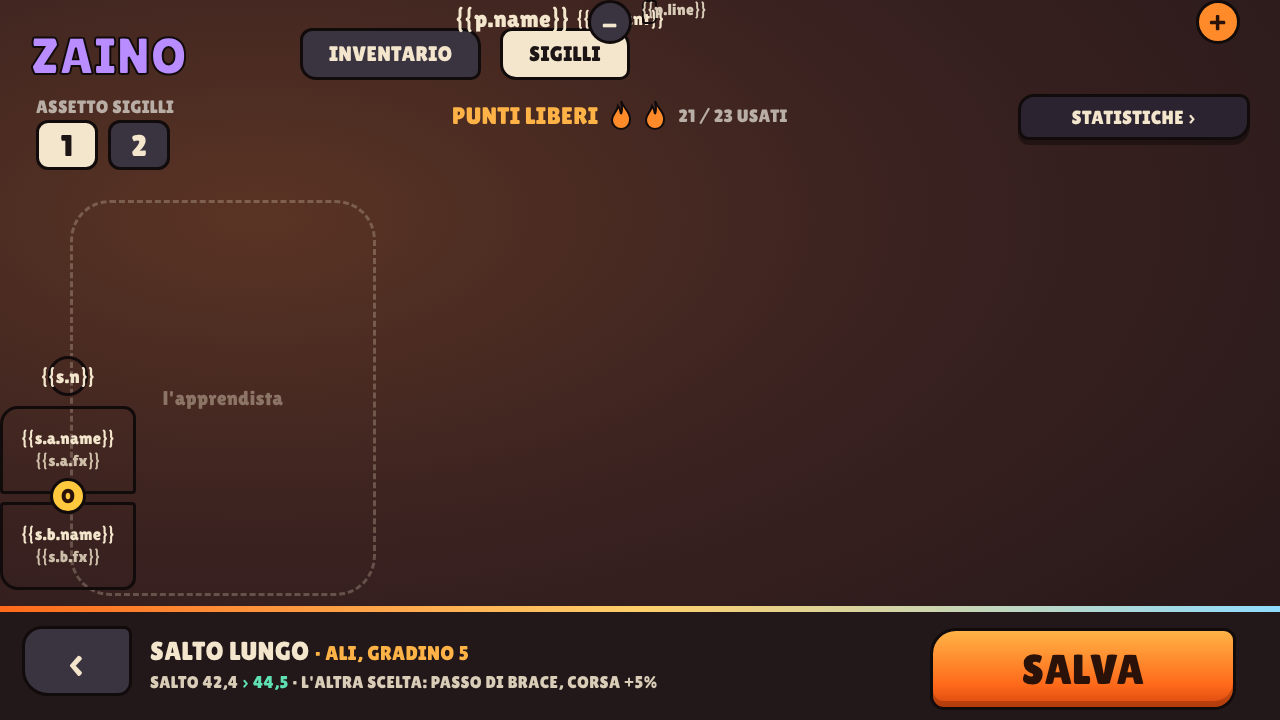
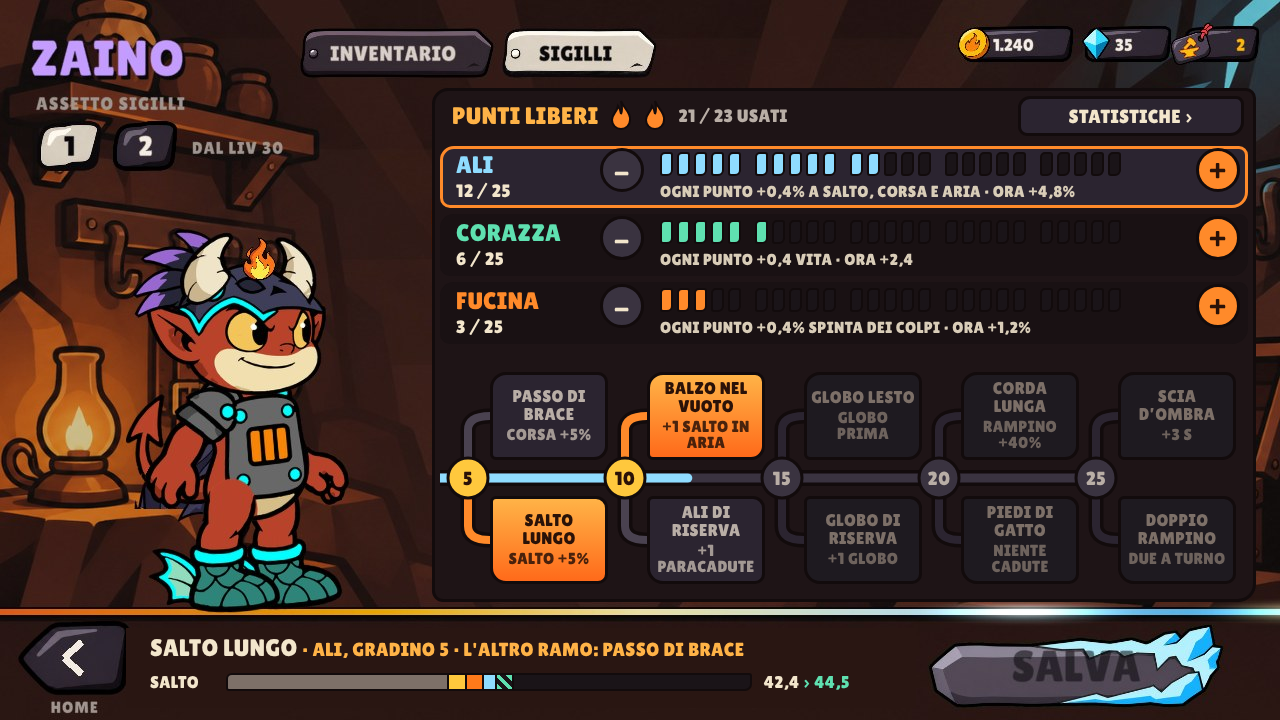
WB-062 sul bivio scelto da Sergio, WB-067 pezzi del Profilo (nastri, medaglie, rivedi)
Claude-Session: https://claude.ai/code/session_01XmXLjjPEF6PdJMsAe4hSP3

diff --git a/docs/handoff/WB-062_sigilli_bivio_e_tacche.md b/docs/handoff/WB-062_sigilli_bivio_e_tacche.md
@@ -1,6 +1,6 @@
 # WB-062 · Sigilli: «o l'uno o l'altro» e le tacche dei punti
 
-- **Stato:** APPROVATA (Claude, 15 nov: Sergio ha chiesto «altre proposte anche usando codex per fare capire che quei pulsanti ti fanno scegliere o l'una o l'altra»; sono solo immagini di prova, reversibili)
+- **Stato:** APPROVATA (Sergio, 15 nov 22:48: «per i sigilli A e bivio»)
 - **Data:** 2026-11-15
 - **Ramo della scheda:** `claude/project-thread-bpo2v6` (Codex la esegue da qui: `git fetch origin claude/project-thread-bpo2v6`, non serve che sia su `main`) · **Ramo delle immagini:** `design/WB-062`
 - **Autorizzato:** pubblica PNG, prompt e scheda sul ramo `design/WB-062` senza chiedere conferma (il repository è privato).
@@ -9,9 +9,10 @@
 
 Nella pagina dei Sigilli (R3) ogni gradino ha due poteri ma non si capisce che se ne tiene
 **uno solo**; e i punti non si vedono uno per uno. Claude ha disegnato tre forme possibili
-per il gradino (R1: sigillo spezzato, bivio, leva) e la bozza della pagina (R2: tacche a
-fiamma, pulsanti − e +). Qui servono i fogli disegnati bene, per far scegliere a Sergio la
-forma, e i pezzi piccoli delle tacche.
+per il gradino (R1) e Sergio ha scelto la **2, il bivio**, dentro la pagina A (R2: il sentiero
+dei punti corre in orizzontale, a ogni gradino si divide in un ramo verso l'alto e uno verso
+il basso, il fuoco scorre solo nel ramo scelto; tacche e pulsanti − e +). Qui servono i pezzi
+del bivio disegnati bene e i pezzi piccoli delle tacche.
 
 ## Come devono essere fatti
 
@@ -20,15 +21,16 @@ forma, e i pezzi piccoli delle tacche.
 - **Ricalcabili in vettori:** colori pieni (al massimo cinque per pezzo), china nera chiusa e
   spessa, nessun dettaglio più sottile della china.
 - **Stessa famiglia di WB-022** (R4, R5): stessa china, stesso ferro scuro, stessa brace.
-- **Tre stati per ogni forma:** scelto a sinistra, scelto a destra, chiuso (punti non
-  ancora arrivati: tutto spento, con un piccolo lucchetto).
+- **Pezzi separati, da montare nel gioco:** il gioco li mette in fila e li allunga, quindi
+  ogni pezzo sta da solo: tratto di sentiero, nodo del gradino, ramo su, ramo giù, piastra del
+  potere. Ogni pezzo in tre stati: acceso (fuoco), spento (ferro), chiuso (ferro scuro).
 
 ## Riferimenti da allegare
 
 | Codice | File | Cos'è |
 |---|---|---|
-| R1 | `art/WB-062/riferimenti/R1_tre_forme_bivio.png` | le tre forme del gradino (segnaposto di Claude, da ridisegnare bene) |
-| R2 | `art/WB-062/riferimenti/R2_bozza_sigilli.png` | la bozza della pagina: tacche a fiamma, pulsanti − e + |
+| R1 | `art/WB-062/riferimenti/R1_tre_forme_bivio.png` | le tre forme provate: va disegnata la 2, il bivio |
+| R2 | `art/WB-062/riferimenti/R2_bozza_sigilli.png` | la pagina scelta (A col bivio) montata sul gioco vero: dove va ogni pezzo |
 | R3 | `art/WB-062/riferimenti/R3_sigilli_oggi.png` | la pagina di oggi nel gioco |
 | R4 | `art/WB-022/pezzo_pannello.png` | il pannello di WB-022: stile della china e del ferro |
 | R5 | `art/WB-022/pezzo_piccoli.png` | pezzi piccoli di WB-022: grandezza della china |
@@ -40,17 +42,17 @@ primo è "image 1", il secondo "image 2" e così via.
 
 | Nome file | Cosa c'è | Riferimenti | Misura | Varianti |
 |---|---|---|---|---|
-| `forme_gradino` | le tre forme, ognuna nei tre stati (griglia 3×3) | R1, R3, R4, R5 | 1536×1024 | 3 |
+| `pezzi_bivio` | sentiero, nodo, ramo su, ramo giù, piastra, ognuno acceso, spento e chiuso | R2, R1, R4, R5 | 1536×1024 | 3 |
 | `tacche` | tacca vuota e piena nei tre colori, fiamma dei punti liberi, pulsanti − e + | R2, R4, R5 | 1024×1024 | 2 |
 
-Le varianti si chiamano `forme_gradino_1.png` e così via, in `art/WB-062/`. Per ogni foglio
+Le varianti si chiamano `pezzi_bivio_1.png` e così via, in `art/WB-062/`. Per ogni foglio
 Codex scrive un `.txt` con lo stesso nome: cosa ha fatto e cosa non è riuscito a rispettare.
 
-### `forme_gradino`
+### `pezzi_bivio`
 
 ```
-Image 1 is a rough mock-up made by hand of three ways to draw ONE step of a skill tree where the player can keep only one of two powers: (1) a round seal broken in two halves with a zig-zag crack, the chosen half lit and the other half dull and slightly detached; (2) a Y-shaped path that splits in two branches, fire flows only in the chosen branch, a small gold disc sits at the fork; (3) a forge lever between two plates, the lever points at the chosen plate. Image 2 is the game screen where these steps go today. Images 3 and 4 show pieces of the same game interface and are the STYLE to copy exactly: thick slightly irregular black ink outline, flat colors, one flat highlight and one flat shadow per piece, soft hand-drawn slightly crooked shapes, like a cartoon comic. Dark iron is #2B2530 with highlight #6B6375, ember is #F26419 with a lighter band #FFB703 and a darker band #B8440F, gold is #FFC83D, dull grey is #3A3340.
-Draw a clean sheet on a fully transparent background with a 3 by 3 grid of separate pieces, well spaced, nothing touching. Row 1: the broken seal. Row 2: the Y path. Row 3: the lever. Column 1: the LEFT power chosen (left part glowing ember, right part dull iron). Column 2: the RIGHT power chosen (mirror). Column 3: LOCKED (both parts dull dark iron, a small round gold padlock in the middle). The parts where a power name goes must be large, flat and EMPTY, no letters, no icons, no numbers anywhere. Same ink thickness on every piece. No background, no shadows on the ground, no glow outside the ink, no text.
+Image 1 is a mock-up of a skill tree screen of our game: a horizontal path of points runs from left to right, at each step there is a round numbered node, and from the node the path splits into a branch going UP to one power plate and a branch going DOWN to another power plate; the player keeps only one of the two powers, so fire flows only in the chosen branch. Image 2 shows the fork idea alone (number 2, the Y-shaped path). Images 3 and 4 show pieces of the same game interface and are the STYLE to copy exactly: thick slightly irregular black ink outline, flat colors, one flat highlight and one flat shadow per piece, soft hand-drawn slightly crooked shapes, like a cartoon comic. Ember is #F26419 with a lighter band #FFB703 and a darker band #B8440F, dark iron is #2B2530 with highlight #6B6375, darker iron for locked is #1E1A20, gold is #FFC83D, ice blue for the points already earned is #8FDCFF with highlight #CAF0F8.
+Draw a clean sheet on a fully transparent background with separate pieces, well spaced, nothing touching, in three rows. Row 1 LIT: a straight horizontal path segment (a thick rounded rail, ice blue, like a channel where points flow), a round node disc in gold with an empty flat center for a number, a branch that leaves the node going up and then curves to the right (glowing ember, fire flowing inside), the same branch going down and curving to the right, and a rounded power plate in ember (wide, flat empty center for two lines of text). Row 2 OFF: the same five pieces in dull dark iron (the branch not chosen, the plate not chosen), the plate keeps a clear ink border and a flat dark center. Row 3 LOCKED: the same five pieces in darker iron, the node with a tiny gold padlock instead of the empty center. All pieces must join edge to edge when placed side by side (same rail thickness everywhere). No letters, no numbers, no background, no shadows on the ground, no glow outside the ink.
 ```
 
 ### `tacche`
@@ -68,7 +70,7 @@ No letters, no numbers, no background, no glow outside the ink.
 ## Criteri di accettazione
 
 - [ ] sfondo trasparente pulito, contorno nero puro e spesso, nessuna scritta
-- [ ] nei fogli delle forme si capisce a colpo d'occhio che si tiene una parte sola
+- [ ] nel foglio del bivio si capisce a colpo d'occhio che il fuoco va in un ramo solo
 - [ ] le zone per i nomi dei poteri sono piatte e vuote
 - [ ] le tacche si leggono a 24 px: vuota e piena ben diverse
 - [ ] i pezzi non si toccano (si ritagliano uno per uno)
@@ -77,8 +79,7 @@ No letters, no numbers, no background, no glow outside the ink.
 
 ## Decisione
 
-Approvata da Claude il 15 nov (immagini di prova). La forma da usare la sceglie Sergio
-dai fogli.
+Sergio, 15 nov 22:48: pagina A col bivio (forma 2).
 
 ## Consegna di Codex
 

diff --git a/docs/handoff/WB-067_profilo_nastri_e_medaglie.md b/docs/handoff/WB-067_profilo_nastri_e_medaglie.md
@@ -1,0 +1,84 @@
+# WB-067 · Profilo: nastri delle partite, medaglie dei record, pulsante rivedi
+
+- **Stato:** APPROVATA (Sergio, 15 nov 22:48: «il resto quello che hai consigliato», cioè le due pagine del Profilo proposte da Claude)
+- **Data:** 2026-11-15
+- **Ramo della scheda:** `claude/project-thread-bpo2v6` (Codex la esegue da qui: `git fetch origin claude/project-thread-bpo2v6`, non serve che sia su `main`) · **Ramo delle immagini:** `design/WB-067`
+- **Autorizzato:** pubblica PNG, prompt e scheda sul ramo `design/WB-067` senza chiedere conferma (il repository è privato).
+
+## Obiettivo
+
+Le pagine del Profilo (R1 statistiche, R2 cronologia) oggi sono scatole scure. Nella proposta
+scelta ogni partita ha un **nastro** a sinistra (fiamma per la vittoria, ghiaccio per la
+sconfitta, come il Filo di Brace), i record hanno una **medaglia** (bronzo, argento, oro) e
+ogni partita un **pulsante rotondo per rivederla**. Il resto (barre, grafico, teste) lo
+disegna il gioco.
+
+## Come devono essere fatti
+
+- **Interno piatto e senza scritte:** il gioco scrive VITTORIA, SCONFITTA e i numeri delle
+  medaglie sopra.
+- **Il nastro si allunga in alto senza deformarsi:** la punta a fiamma (o a scheggia) sta solo
+  sul lato destro, il resto è liscio.
+- **Ricalcabili in vettori:** colori pieni (al massimo cinque per pezzo), china nera chiusa e
+  spessa, nessun dettaglio più sottile della china.
+- **Stessa famiglia di WB-022 e del pulsante principale** (R3, R4, R5).
+
+## Riferimenti da allegare
+
+| Codice | File | Cos'è |
+|---|---|---|
+| R1 | `art/WB-067/riferimenti/R1_bozza_profilo_statistiche.png` | la pagina STATISTICHE proposta: record con medaglia |
+| R2 | `art/WB-067/riferimenti/R2_bozza_profilo_cronologia.png` | la pagina CRONOLOGIA proposta: nastri e pulsante rivedi |
+| R3 | `art/WB-022/pezzo_pannello.png` | il pannello di WB-022: stile della china e del ferro |
+| R4 | `art/WB-022/pezzo_piccoli.png` | pezzi piccoli di WB-022: grandezza della china |
+| R5 | `art/WB-054/ritagli/primario_gemma_acceso.png` | il pulsante principale: la fiamma e i cristalli da riprendere |
+
+## Immagini da generare
+
+Ogni prompt è completo e va usato così com'è. Allega i riferimenti nell'ordine scritto: il
+primo è "image 1", il secondo "image 2" e così via.
+
+| Nome file | Cosa c'è | Riferimenti | Misura | Varianti |
+|---|---|---|---|---|
+| `nastri_e_rivedi` | nastro vittoria, nastro sconfitta, pulsante rivedi (normale e premuto) | R2, R3, R4, R5 | 1536×1024 | 3 |
+| `medaglie` | medaglia bronzo, argento, oro, e la stessa vuota (record non ancora preso) | R1, R3, R4 | 1024×1024 | 2 |
+
+Le varianti si chiamano `nastri_e_rivedi_1.png` e così via, in `art/WB-067/`. Per ogni foglio
+Codex scrive un `.txt` con lo stesso nome: cosa ha fatto e cosa non è riuscito a rispettare.
+
+### `nastri_e_rivedi`
+
+```
+Image 1 is a mock-up of the MATCH HISTORY screen of our game: every match is a dark card with a result ribbon on the left (orange with a flame-shaped tip for a WIN, light blue with an ice-shard tip for a LOSS) and a round orange play button on the right to watch the replay. These are hand-made placeholders to redraw well. Images 2 and 3 show pieces of the same game interface and are the STYLE to copy exactly: thick slightly irregular black ink outline, flat colors, one flat highlight and one flat shadow per piece, soft hand-drawn slightly crooked shapes, like a cartoon comic. Image 4 is the main button of the game: copy the way its flame and its ice crystals are drawn. Ember is #F26419 with a lighter band #FFB703 and a darker band #B8440F, ice is #38B6FF with highlight #CAF0F8 and a deeper band #1E7FC2, dark text color is #2A1208.
+Draw a clean sheet on a fully transparent background with separate pieces, well spaced, nothing touching:
+1) the WIN ribbon: a wide horizontal banner (about 2 to 1), straight left side, the right side ends in a short licking flame shape; ember colors with one lighter band along the top; large flat empty center for a word.
+2) the LOSS ribbon: same size and same left side, the right side ends in two or three sharp ice shards; ice colors; large flat empty center for a word.
+3) a round REPLAY button: ember gradient disc with a thick ink outline and a dark #2A1208 play triangle in the middle, small flat highlight on top.
+4) the same replay button pressed: slightly darker, highlight gone, a few pixels lower.
+No letters, no numbers, no background, no shadows on the ground, no glow outside the ink.
+```
+
+### `medaglie`
+
+```
+Image 1 is a mock-up of the PLAYER STATS screen of our game: each record card has a small round medal in its top right corner, with a roman numeral written by the game on top. Images 2 and 3 show pieces of the same game interface and are the STYLE to copy exactly: thick slightly irregular black ink outline, flat colors, one flat highlight and one flat shadow per piece, soft hand-drawn slightly crooked shapes, like a cartoon comic.
+Draw a clean sheet on a fully transparent background with four separate small medals, well spaced, nothing touching, each readable at 32 pixels: a BRONZE medal (#D08A4A with lighter #F0B07A and darker #8A5428), a SILVER medal (#C9C6D2 with lighter #F0EEF5 and darker #8A8696), a GOLD medal (#FFC83D with lighter #FFE59A and darker #C9901A), and an EMPTY medal slot (dashed ivory outline on dark iron #2B2530, for a record not reached yet). Each medal is a slightly crooked round coin with a thick ink outline, a flat empty center for a roman numeral, and a tiny ember spark notch on its rim. No letters, no numbers, no ribbons, no background, no glow outside the ink.
+```
+
+## Criteri di accettazione
+
+- [ ] sfondo trasparente pulito, contorno nero puro e spesso, nessuna scritta
+- [ ] vittoria e sconfitta si distinguono anche senza colore (fiamma contro scheggia)
+- [ ] il centro dei nastri e delle medaglie è piatto e vuoto
+- [ ] le medaglie si leggono a 32 px
+- [ ] i pezzi non si toccano (si ritagliano uno per uno)
+
+---
+
+## Decisione
+
+Sergio, 15 nov 22:48: le pagine del Profilo come proposte da Claude.
+
+## Consegna di Codex
+
+## Resoconto di Claude
